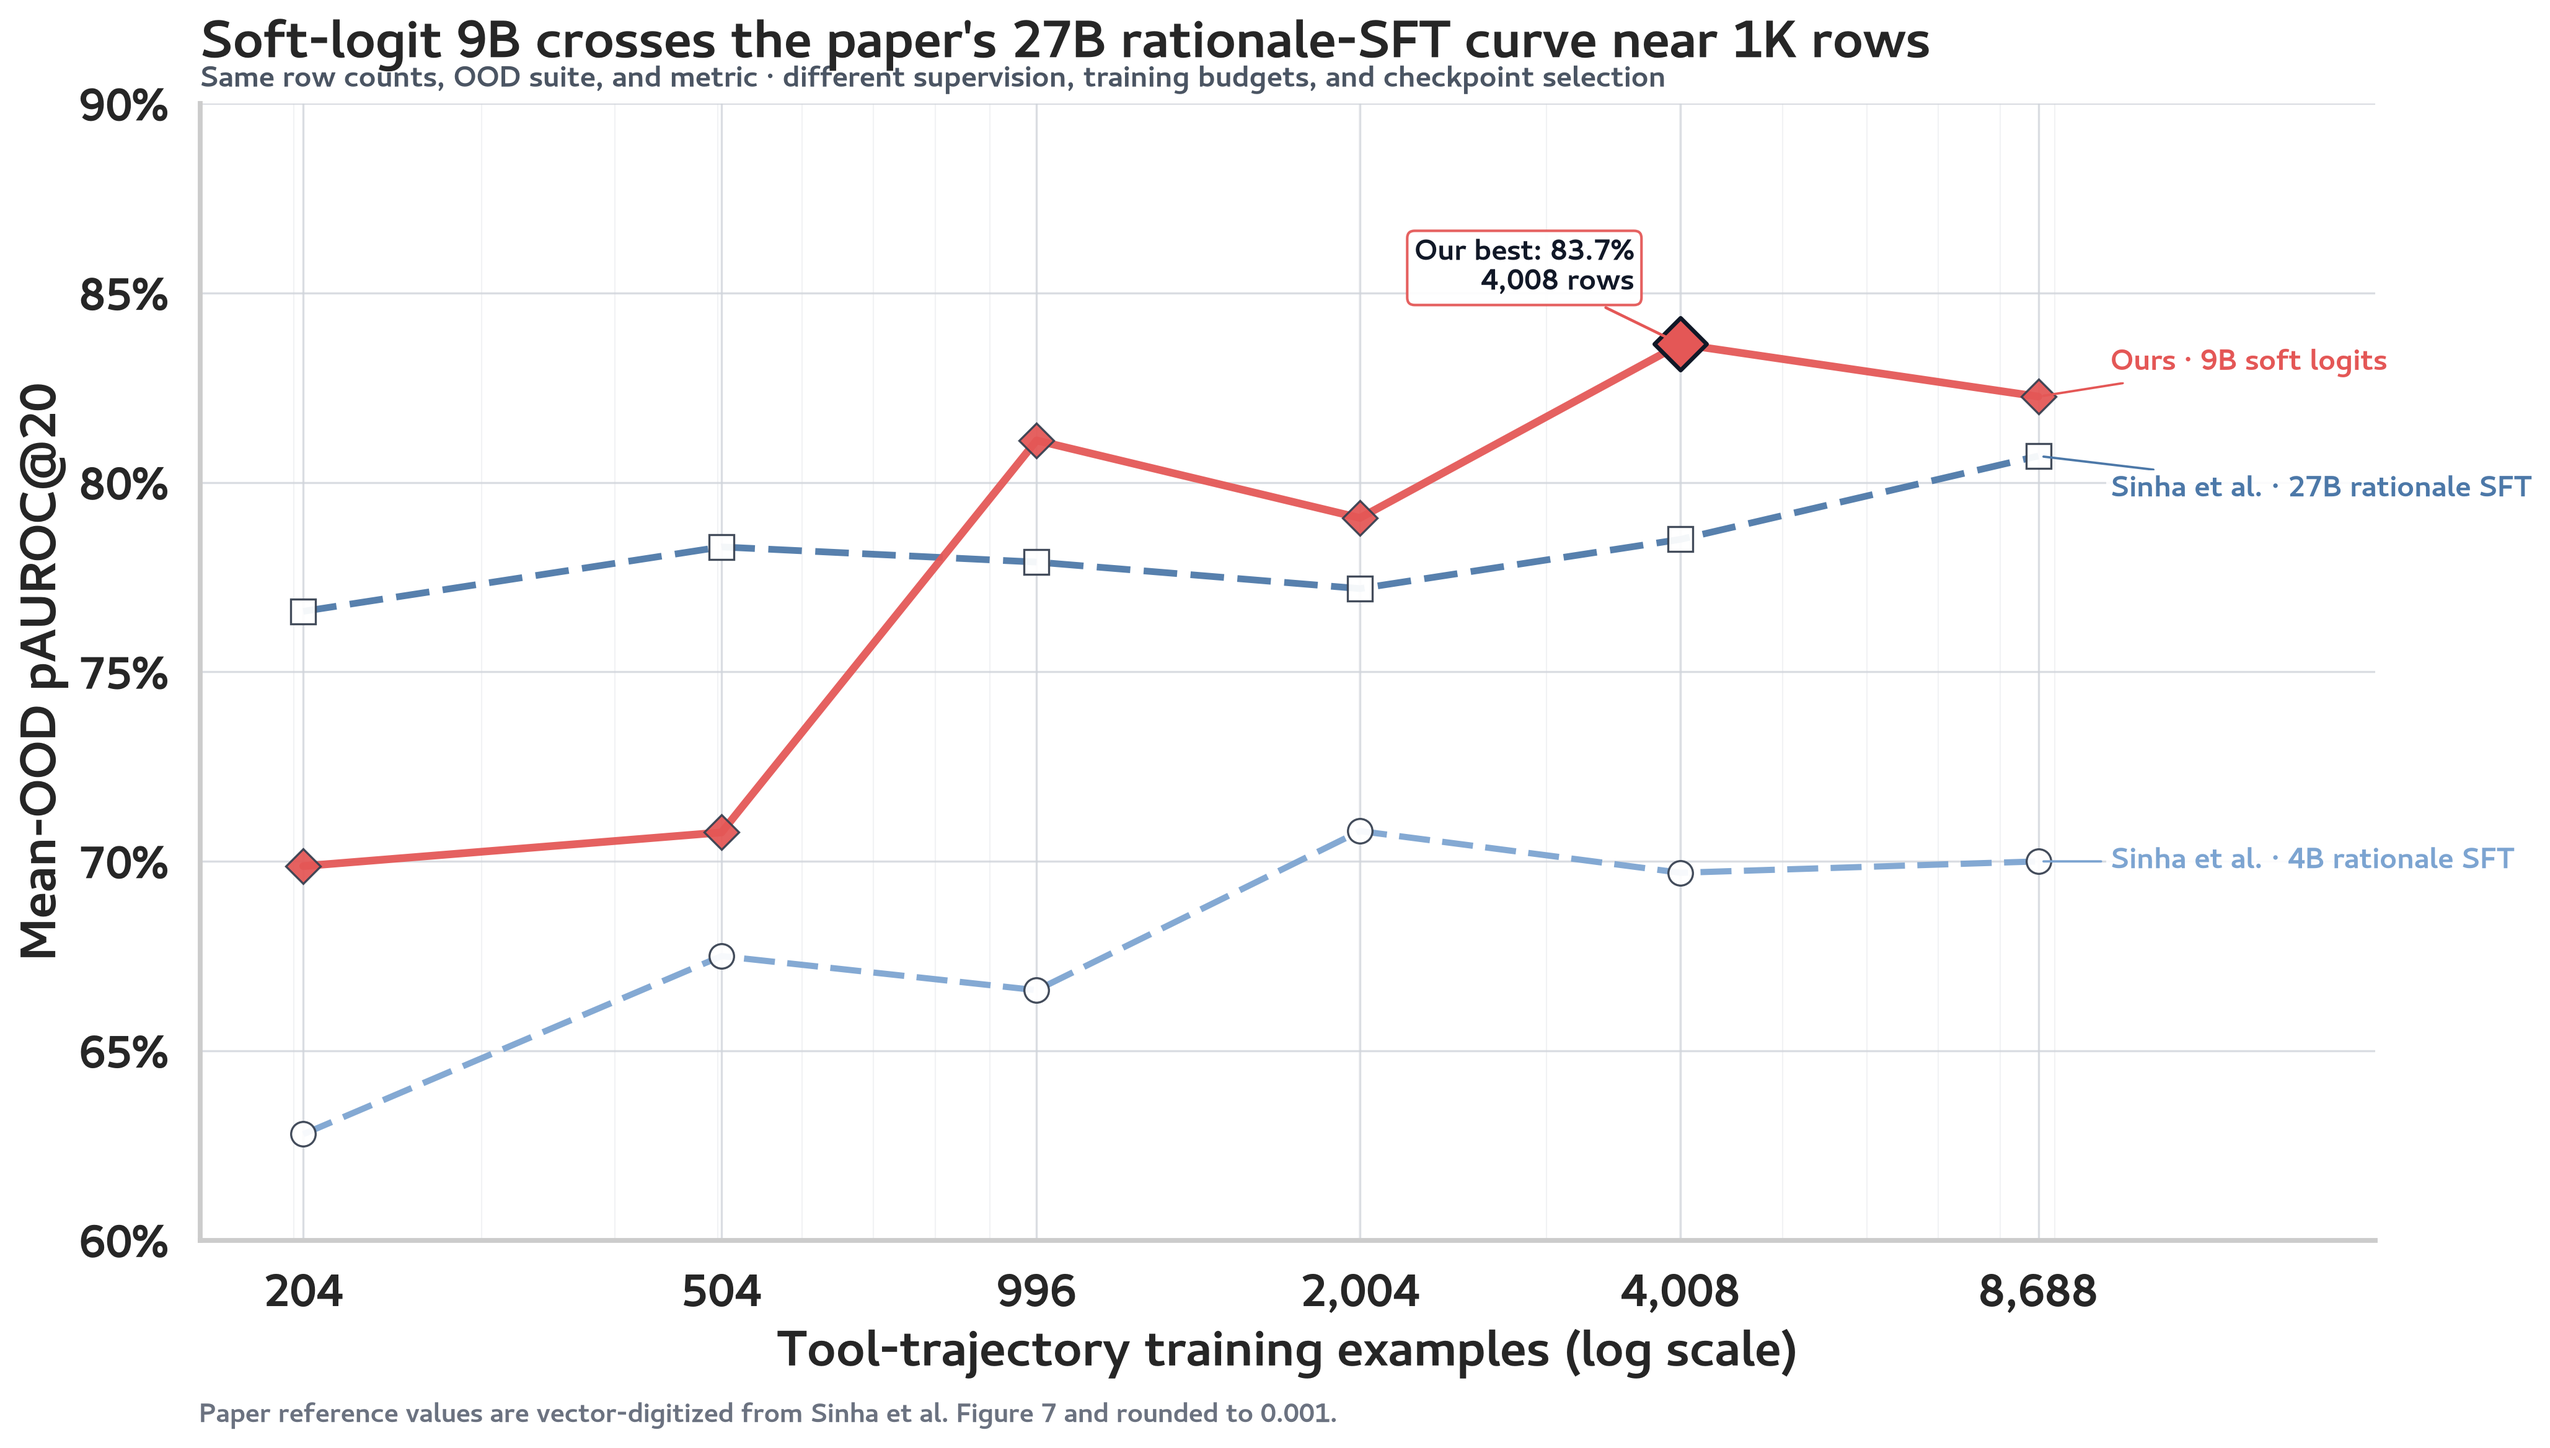
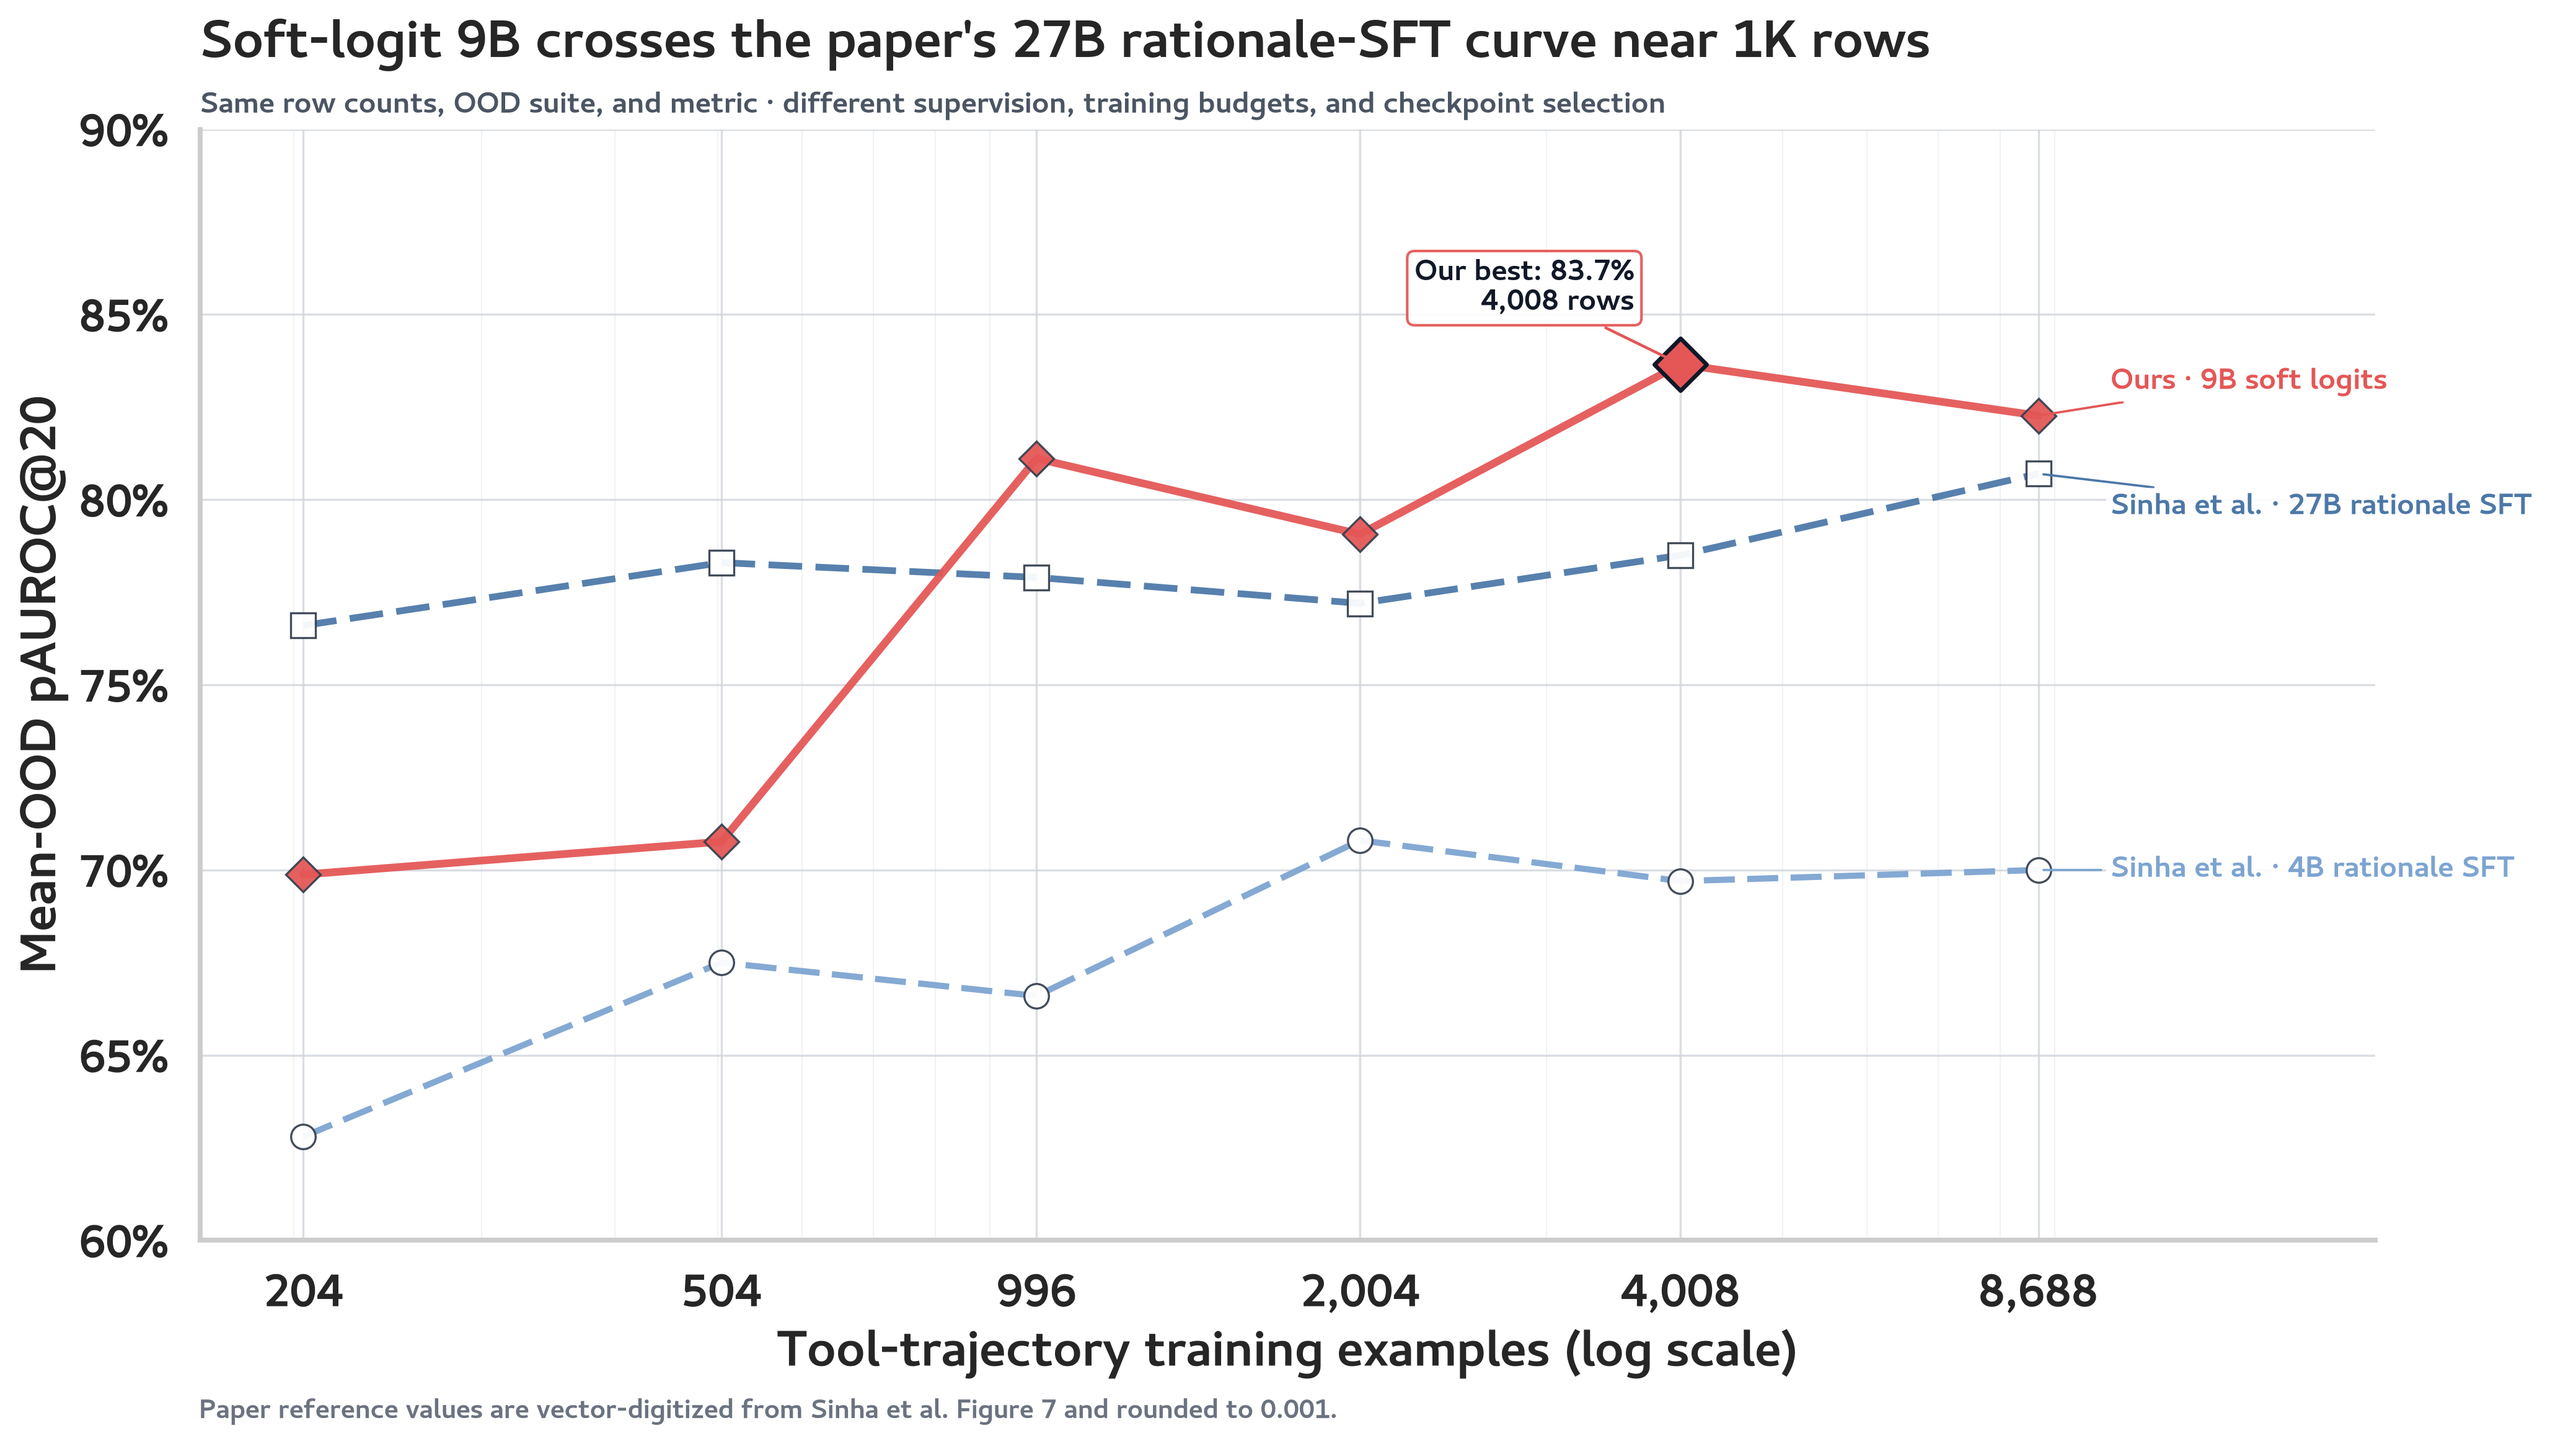
Add scaling title spacing

diff --git a/scripts/plot_tool_trajectory_ood_scaling.py b/scripts/plot_tool_trajectory_ood_scaling.py
@@ -302,7 +302,7 @@ def plot_scaling(frame: pd.DataFrame, paper: pd.DataFrame) -> plt.Figure:
         loc="left",
         fontsize=20.5,
         fontweight="bold",
-        pad=18,
+        pad=28,
     )
     axis.text(
         0.0,
